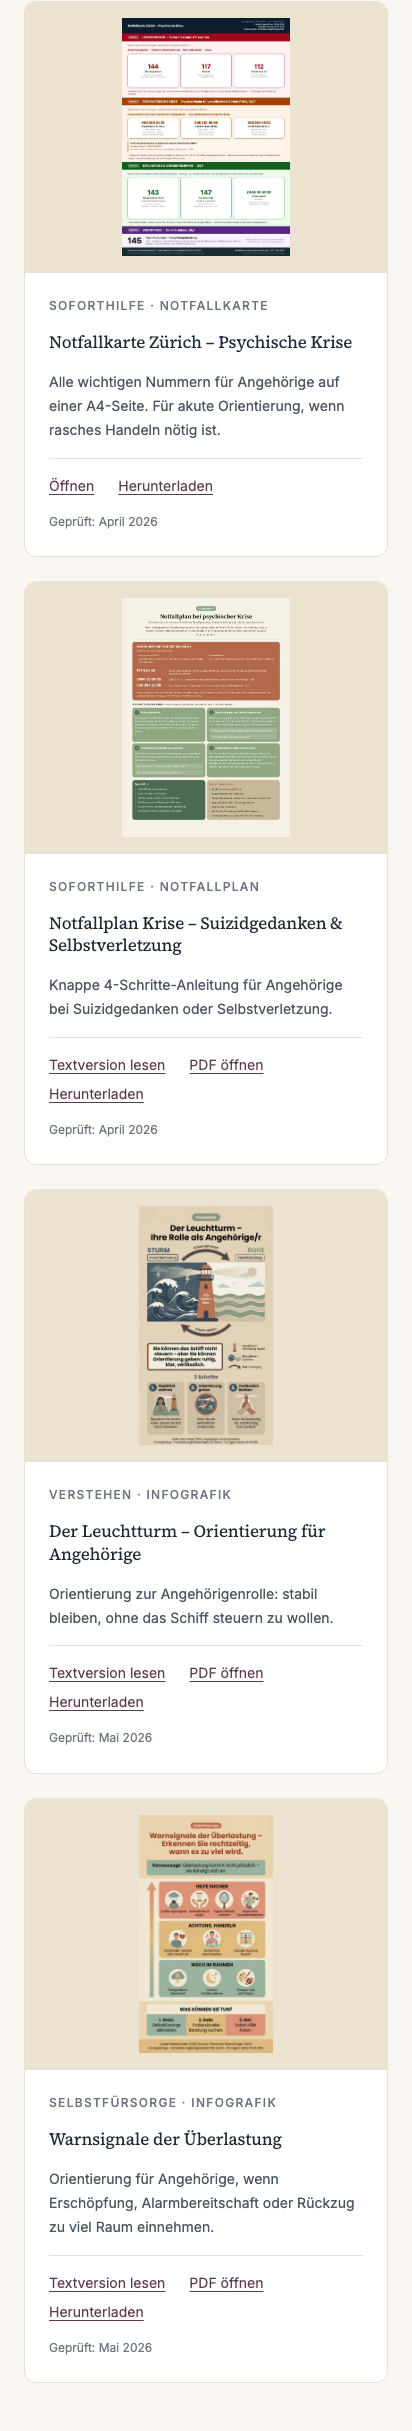
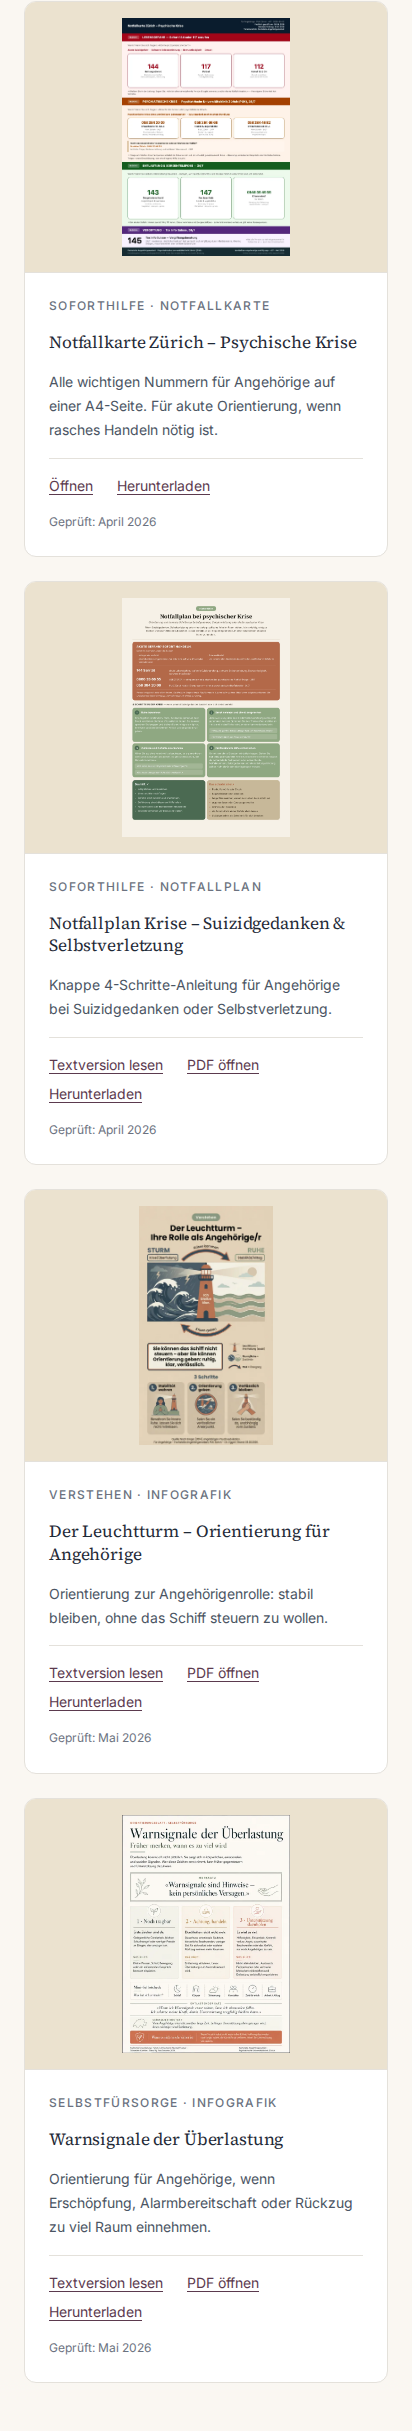
[codex] Add Warnsignale v2 assets (#537)
* Add Warnsignale v2 assets

* Update Warnsignale visual baselines

---------

Pull request: [codex] Add Warnsignale v2 assets
## Summary
- add the approved Warnsignale der Überlastung v2 PDF/WebP/thumbnail assets
- update Materialien and Selbstfürsorge references from v1 to v2
- replace the old Ampel teaser wording with the calmer three-stage overload framing
- mark the Warnsignale asset blocker as resolved and refresh the infografik inventory
- add a regression guard so productive references stay on v2

## Validation
- pnpm check
- pnpm lint
- pnpm exec vitest run --config vitest.config.ts client/src/__tests__/infografik-assets.test.ts client/src/__tests__/handout-text-versions.test.tsx client/src/__tests__/handout-release-content.test.ts client/src/__tests__/materialien-library.test.tsx client/src/__tests__/selbstfuersorge-infografiken.test.tsx client/src/__tests__/smoke.test.tsx
- pnpm test
- pnpm build
- pnpm prettier --check .
- pnpm audit:infografiken

## Asset QA
- PDF is 1-page A4 portrait: 595.44 x 841.518 pts

diff --git a/client/src/__tests__/infografik-assets.test.ts b/client/src/__tests__/infografik-assets.test.ts
@@ -175,4 +175,24 @@ describe("infografik assets", () => {
       ]
     );
   });
+
+  it("uses the freigegebene Warnsignale v2 assets in productive references", () => {
+    const referencedPaths = collectReferencedInfografikAssets().map(
+      asset => asset.path
+    );
+
+    expectProductiveAssetVersion(
+      referencedPaths,
+      [
+        "/infografiken/manus-warnsignale-v2.pdf",
+        "/infografiken/manus-warnsignale-v2.webp",
+        "/infografiken/extras/thumbnails/manus-warnsignale-v2.webp",
+      ],
+      [
+        "/infografiken/manus-warnsignale-v1.pdf",
+        "/infografiken/manus-warnsignale-v1.webp",
+        "/infografiken/extras/thumbnails/manus-warnsignale-v1.webp",
+      ]
+    );
+  });
 });

diff --git a/client/src/content/selbstfuersorge.ts b/client/src/content/selbstfuersorge.ts
@@ -19,11 +19,11 @@ export const selbstfuersorgeInfografiken: SelbstfuersorgeInfografik[] = [
   {
     id: "warnsignale",
     title: "Warnsignale der Überlastung",
-    desc: "Ampel-Stufenmodell: Grün → Gelb → Rot – erkennen Sie rechtzeitig, wann es zu viel wird.",
+    desc: "Drei Stufen der Überlastung: erste Zeichen wahrnehmen, Entlastung aktivieren und Unterstützung dazuholen.",
     category: "erkennen",
-    webp: "/infografiken/manus-warnsignale-v1.webp",
-    thumbnailUrl: "/infografiken/extras/thumbnails/manus-warnsignale-v1.webp",
-    pdf: "/infografiken/manus-warnsignale-v1.pdf",
+    webp: "/infografiken/manus-warnsignale-v2.webp",
+    thumbnailUrl: "/infografiken/extras/thumbnails/manus-warnsignale-v2.webp",
+    pdf: "/infografiken/manus-warnsignale-v2.pdf",
     featured: true,
   },
   {

diff --git a/client/src/content/materialien.ts b/client/src/content/materialien.ts
@@ -148,9 +148,9 @@ export const materials: MaterialItem[] = [
       "Orientierung für Angehörige, wenn Erschöpfung, Alarmbereitschaft oder Rückzug zu viel Raum einnehmen.",
     category: "selbstfuersorge",
     kind: "Infografik",
-    url: "/infografiken/manus-warnsignale-v1.webp",
-    thumbnailUrl: "/infografiken/extras/thumbnails/manus-warnsignale-v1.webp",
-    downloadUrl: "/infografiken/manus-warnsignale-v1.pdf",
+    url: "/infografiken/manus-warnsignale-v2.webp",
+    thumbnailUrl: "/infografiken/extras/thumbnails/manus-warnsignale-v2.webp",
+    downloadUrl: "/infografiken/manus-warnsignale-v2.pdf",
     priority: "core",
     verifiedAt: "Mai 2026",
   },

diff --git a/qa/handout-asset-blockers.md b/qa/handout-asset-blockers.md
@@ -30,6 +30,7 @@ Wichtig: Dieser Report ersetzt keine visuelle PDF-Prüfung. Er ist ein Reexport-
 | `grenzen-ohne-eskalation`  | `/infografiken/manus-grenzen-ohne-eskalation-v2.pdf`, `/infografiken/manus-grenzen-ohne-eskalation-v2.webp`, `/infografiken/extras/thumbnails/manus-grenzen-ohne-eskalation-v2.webp`                      | erfüllt   | v2-Assets liegen vor und ersetzen die produktiven v1-Referenzen.         |
 | `spiegeln-statt-aufsaugen` | `/infografiken/manus-spiegeln-statt-aufsaugen-v2.pdf`, `/infografiken/manus-spiegeln-statt-aufsaugen-v2.webp`, `/infografiken/extras/thumbnails/manus-spiegeln-statt-aufsaugen-v2.webp`                   | erfüllt   | v2-Assets liegen vor und ersetzen die produktiven v1-Referenzen.         |
 | `rolle-klaeren`            | `/infografiken/manus-rolle-klaeren-v2.pdf`, `/infografiken/manus-rolle-klaeren-v2.webp`, `/infografiken/extras/thumbnails/manus-rolle-klaeren-v2.webp`                                                    | erfüllt   | v2-Assets liegen vor und ersetzen die produktiven Sphären-v3-Referenzen. |
+| `warnsignale`              | `/infografiken/manus-warnsignale-v2.pdf`, `/infografiken/manus-warnsignale-v2.webp`, `/infografiken/extras/thumbnails/manus-warnsignale-v2.webp`                                                          | erfüllt   | v2-Assets liegen vor und ersetzen die produktiven v1-Referenzen.         |
 
 ## P0: Sicherheits- und Kriseninhalte
 
@@ -73,7 +74,6 @@ Diese Assets sollten im nächsten Design-/Asset-Pass mitgezogen werden, damit di
 | `4-alltags-tipps`        | `/infografiken/manus-4-alltags-tipps-v1.pdf`           | `/infografiken/manus-4-alltags-tipps-v1.webp`           | Textversion macht klar: Alltagstipps gelten nicht als Krisenintervention.                                          |
 | `eisberg`                | `/infografiken/eisberg-der-eisberg-v6.pdf`             | `/infografiken/eisberg-der-eisberg-v6.webp`             | Textversion ergänzt: Verstehen bedeutet nicht, Beschimpfungen, Drohungen oder Gewalt auszuhalten.                  |
 | `spaltung`               | `/infografiken/pendel-das-bewertungs-pendel-v14.pdf`   | `/infografiken/pendel-das-bewertungs-pendel-v14.webp`   | Textversion formuliert Motivannahmen vorsichtiger und ergänzt Grenzen bei Entwertung.                              |
-| `warnsignale`            | `/infografiken/manus-warnsignale-v1.pdf`               | `/infografiken/manus-warnsignale-v1.webp`               | Textversion markiert Warnsignale als Orientierung, nicht Diagnose, und ergänzt Hilfe bei eigener Unsicherheit.     |
 | `sauerstoffmaske`        | `/infografiken/sauerstoff-die-sauerstoffmaske-v4.pdf`  | `/infografiken/sauerstoff-die-sauerstoffmaske-v4.webp`  | Textversion entlastet stärker: Auch kleine Entlastungen zählen; keine Beschämung, wenn Selbstfürsorge schwerfällt. |
 | `stopp-technik`          | `/infografiken/manus-stopp-technik-v1.pdf`             | `/infografiken/manus-stopp-technik-v1.webp`             | Textversion ordnet STOPP als Skill für ansprechbare Situationen ein, nicht als Notfalllösung.                      |
 | `energie-konto`          | `/infografiken/manus-energie-konto-v1.pdf`             | `/infografiken/manus-energie-konto-v1.webp`             | Textversion betont Selbstbeobachtung statt Messinstrument oder perfekter Bilanz.                                   |